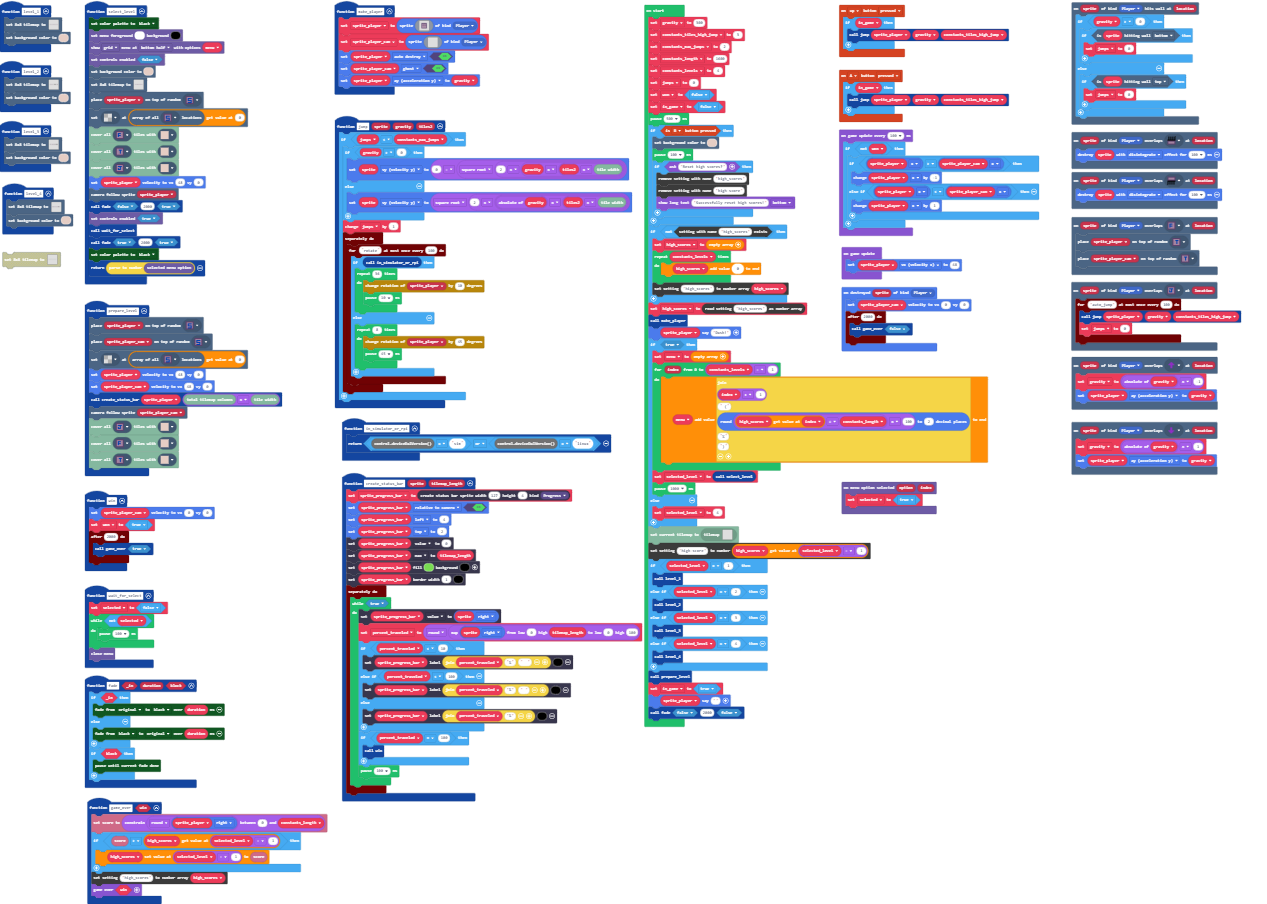
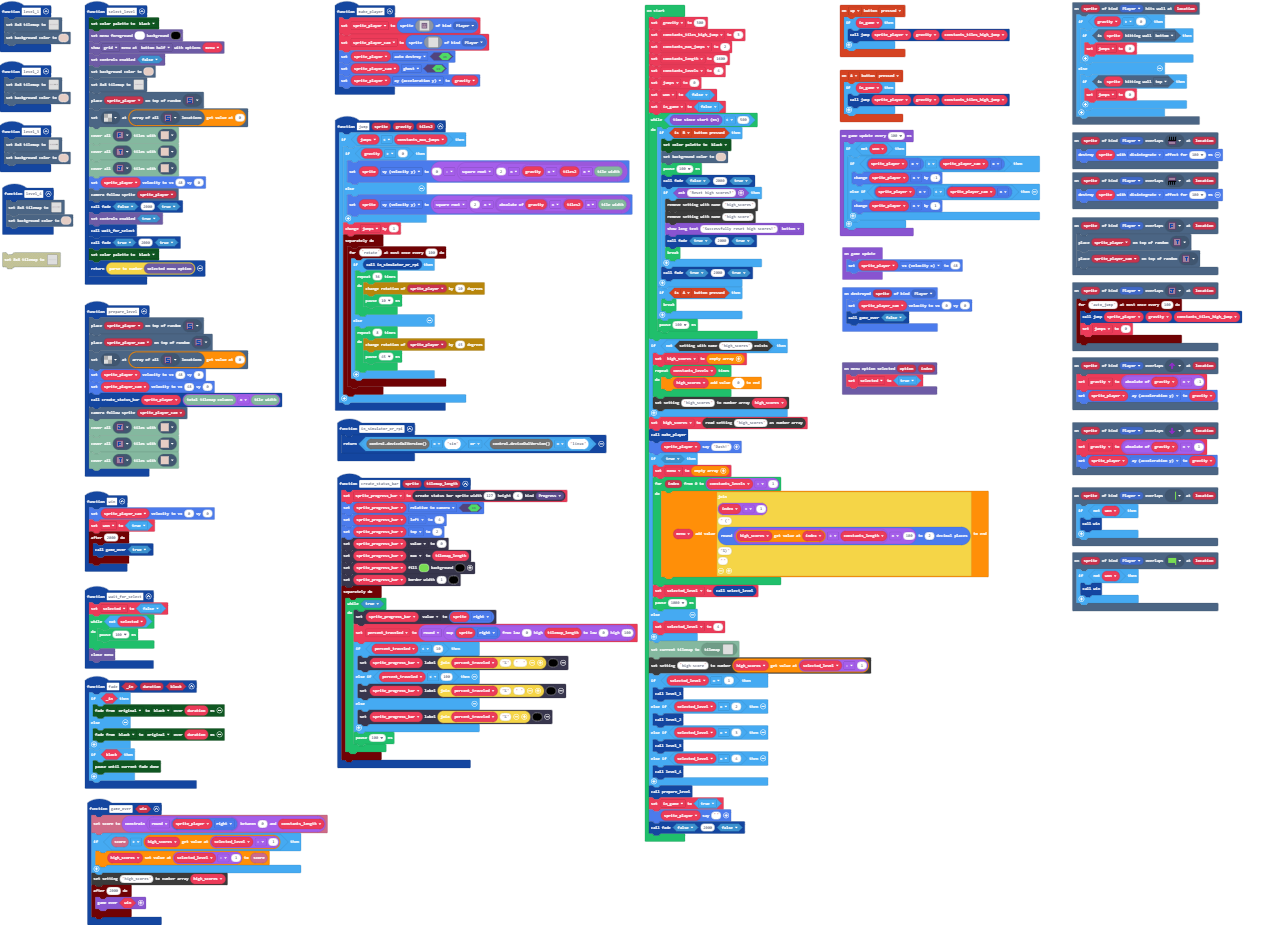
Switch to overlap flag to win

diff --git a/main.ts b/main.ts
@@ -64,9 +64,6 @@ function create_status_bar (sprite: Sprite, tilemap_length: number) {
             } else {
                 sprite_progress_bar.setLabel("" + percent_traveled + "%", 15)
             }
-            if (percent_traveled == 100) {
-                win()
-            }
             pause(100)
         }
     })
@@ -77,8 +74,15 @@ function game_over (win2: boolean) {
         high_scores[selected_level - 1] = info.score()
     }
     blockSettings.writeNumberArray("high_scores", high_scores)
-    game.over(win2)
+    timer.after(2000, function () {
+        game.over(win2)
+    })
 }
+scene.onOverlapTile(SpriteKind.Player, assets.tile`flag_bottom`, function (sprite, location) {
+    if (!(won)) {
+        win()
+    }
+})
 scene.onOverlapTile(SpriteKind.Player, assets.tile`auto_jump`, function (sprite, location) {
     timer.throttle("auto_jump", 100, function () {
         jump(sprite_player, gravity, constants_tiles_high_jump)
@@ -97,6 +101,11 @@ function prepare_level () {
     tiles.coverAllTiles(assets.tile`from`, assets.tile`blank`)
     tiles.coverAllTiles(assets.tile`to0`, assets.tile`blank`)
 }
+scene.onOverlapTile(SpriteKind.Player, assets.tile`flag_top`, function (sprite, location) {
+    if (!(won)) {
+        win()
+    }
+})
 scene.onOverlapTile(SpriteKind.Player, assets.tile`from`, function (sprite, location) {
     tiles.placeOnRandomTile(sprite_player, assets.tile`to0`)
     tiles.placeOnRandomTile(sprite_player_cam, assets.tile`to0`)
@@ -187,9 +196,7 @@ function wait_for_select () {
 }
 sprites.onDestroyed(SpriteKind.Player, function (sprite) {
     sprite_player_cam.setVelocity(0, 0)
-    timer.after(2000, function () {
-        game_over(false)
-    })
+    game_over(false)
 })
 blockMenu.onMenuOptionSelected(function (option, index) {
     selected = true
@@ -225,15 +232,27 @@ let constants_levels = 4
 jumps = 0
 won = false
 in_game = false
-pause(500)
-if (controller.B.isPressed()) {
-    scene.setBackgroundColor(13)
-    pause(100)
-    if (game.ask("Reset high scores?")) {
-        blockSettings.remove("high_scores")
-        blockSettings.remove("high-score")
-        game.showLongText("Successfully reset high scores!", DialogLayout.Bottom)
+while (game.runtime() < 500) {
+    if (controller.B.isPressed()) {
+        color.setPalette(
+        color.Black
+        )
+        scene.setBackgroundColor(13)
+        pause(100)
+        fade(false, 2000, true)
+        if (game.ask("Reset high scores?")) {
+            blockSettings.remove("high_scores")
+            blockSettings.remove("high-score")
+            game.showLongText("Successfully reset high scores!", DialogLayout.Bottom)
+            fade(true, 2000, true)
+            break;
+        }
+        fade(true, 2000, true)
     }
+    if (controller.A.isPressed()) {
+        break;
+    }
+    pause(100)
 }
 if (!(blockSettings.exists("high_scores"))) {
     high_scores = []
@@ -248,7 +267,7 @@ sprite_player.say("Dash!")
 if (true) {
     menu = []
     for (let index = 0; index <= constants_levels - 1; index++) {
-        menu.push("" + (index + 1) + " (" + spriteutils.roundWithPrecision(high_scores[index] / constants_length * 100, 2) + "%" + ")")
+        menu.push("" + (index + 1) + " (" + spriteutils.roundWithPrecision(high_scores[index] / constants_length * 100, 2) + "%)" + "")
     }
     selected_level = select_level()
     pause(1000)

diff --git a/tilemap.g.ts b/tilemap.g.ts
@@ -371,6 +371,25 @@ namespace myTiles {
 222222222222..22..22..22..22..2222222....................................................................22.................................222222222222222222222222222222.......................22.....
 222222222222...................2....2......................................................................................................2222222222222222222222222222222..............................
 `, [myTiles.transparency8,myTiles.tile1,myTiles.tile8,myTiles.tile13,myTiles.tile2,myTiles.tile3,myTiles.tile7,myTiles.tile6,myTiles.tile14,myTiles.tile4,myTiles.tile5], TileScale.Eight);
+            case "level19":
+            case "level19":return tiles.createTilemap(hex`1000100000000000000000000000000000000000000000000000000000000000000000000000000000000000000000000000000000000000000000000000000000000000000000000000000000000000000000000000000000000000000000000000000000000000000000000000000000000000000000000000000000000000000000000000000000000000000000000000000000000000000000000000000000000000000000000000000000000000000000000000000000000000000000000000000000000000000000000000000000000000000000000000000000000000000000000000000000000000000000000000000000000000000000000000000000000000`, img`
+. . . . . . . . . . . . . . . . 
+. . . . . . . . . . . . . . . . 
+. . . . . . . . . . . . . . . . 
+. . . . . . . . . . . . . . . . 
+. . . . . . . . . . . . . . . . 
+. . . . . . . . . . . . . . . . 
+. . . . . . . . . . . . . . . . 
+. . . . . . . . . . . . . . . . 
+. . . . . . . . . . . . . . . . 
+. . . . . . . . . . . . . . . . 
+. . . . . . . . . . . . . . . . 
+. . . . . . . . . . . . . . . . 
+. . . . . . . . . . . . . . . . 
+. . . . . . . . . . . . . . . . 
+. . . . . . . . . . . . . . . . 
+. . . . . . . . . . . . . . . . 
+`, [myTiles.transparency16], TileScale.Sixteen);
         }
         return null;
     })
